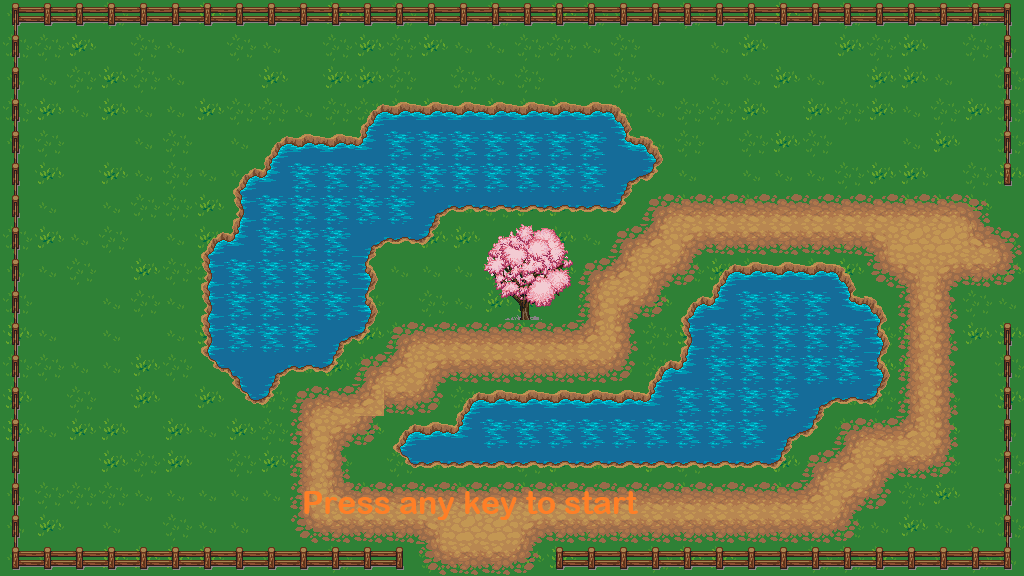
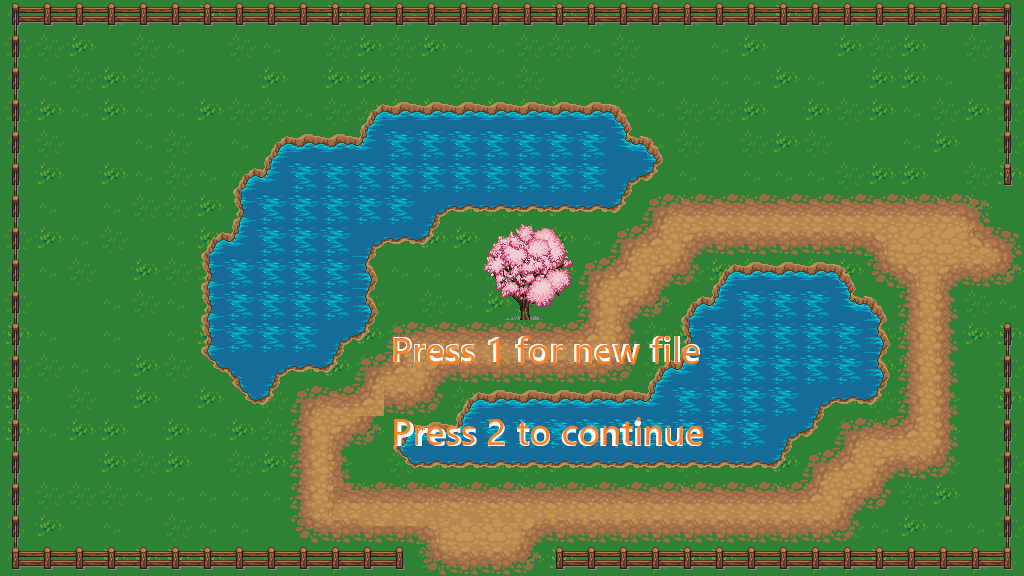
changed intro

Changed region(s): [[0.2812, 0.8438, 0.625, 0.9062], [0.375, 0.7188, 0.6875, 0.7812], [0.375, 0.5625, 0.6875, 0.6562]]

diff --git a/RobotSaga.py b/RobotSaga.py
@@ -3723,7 +3723,9 @@ def textCoordToSpot(x, y):
 # intro credits, adjust to add fade, etc.
 
 def loadIntro():
+    WorldData.loading.spawnSprite()
     WorldData.startScreen = RawSprite(WorldData.path + "Fullscreens/startScreen.png", 0, 0, 2)
+    WorldData.loading.spawnSprite()
     WorldData.title = RawSprite(WorldData.path + "EffectSprites/Title.gif", 286, -64, 1)
     WorldData.loading.spawnSprite()
     WorldData.title.spawnSprite()
@@ -3967,11 +3969,11 @@ def mainMenuAction(inp):
   WorldData.text.onKeyType(blockKeys)
   WorldData.title.removeSprite()
   WorldData.startScreen.removeSprite()
-  if inp == "1":
+  if inp == "2":
     loadBot()
   else:
     newBot()
-  startGame()
+    startGame()
 
 
 
@@ -4033,7 +4035,6 @@ def startGame():
   WorldData.text.grabFocus()
   time.sleep(.2) #gives sliding title time to finish
   WorldData.text.onKeyType(keyAction)
-  loadNewArea(DUNGEON_ENTRANCE_AREA)
 
   # Logic for starting a new character.  Bot1/User will have starting stats
 def newBot():
@@ -4047,7 +4048,7 @@ def newBot():
   # Logic for loading a character. If data exists, bot1 will be loaded from it.
   # Otherwise, the starting screen will replay with a message warning the user
 def loadBot():
-  WorldData.bot1 = User("bot1", "Stick", SpriteData.userSpritePaths, TOWN_AREA)
+  WorldData.bot1 = User("bot1", "Stick", SpriteData.userSpritePaths, AreaData.TOWN_AREA)
   try:
     fin = open(WorldData.path + "SaveData.txt")
     for line in fin:
@@ -4070,12 +4071,10 @@ def loadBot():
       elif "Wallet" in line:
         WorldData.bot1.changeWallet(int(line[len("Wallet:"):line.index('\n')]))
     fin.close()
+    startGame()
   except:
-    loadIntro()
-    warning = gui.Label("No Save found!")
-    WorldData.display.add(warning, 330, 100)
-    threadRemoveSprite(2, warning)
-
+    thread.start_new_thread(loadIntro, ())
+  
 
 
     # Saves the user's stats to a file for future loading
